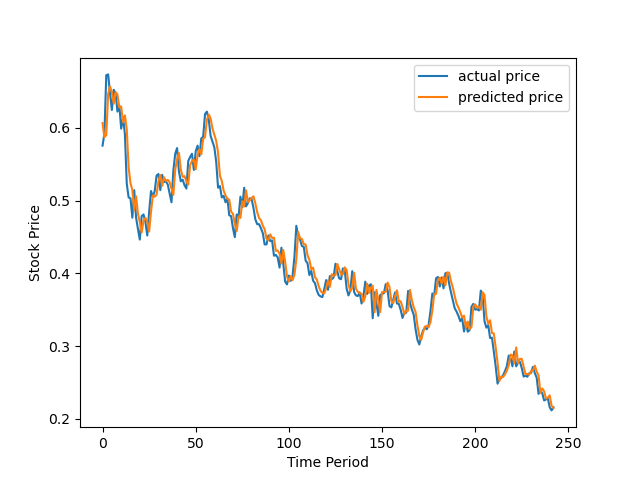
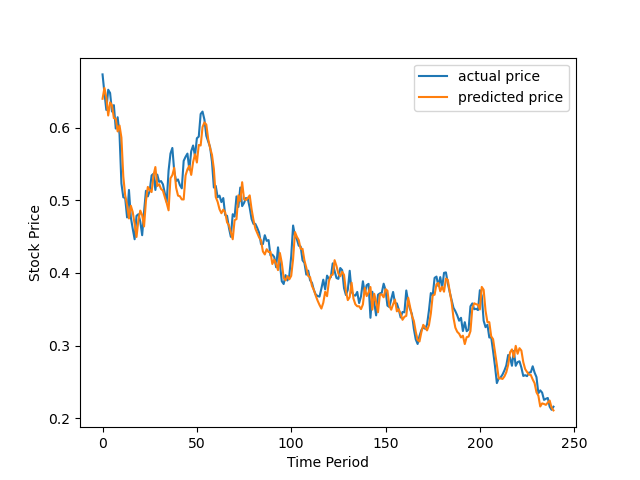
.

diff --git a/stock/main.py b/stock/main.py
@@ -44,16 +44,17 @@ def MinMaxScaler(data):
 
 # train Parameters
 learning_rate = 0.001
-num_epochs = 3001
-input_size = 11
+num_epochs = 5001
+input_size = 8
 hidden_size = 512
 num_classes = 1
-timesteps = seq_length = 14
+timesteps = seq_length = 21
 num_layers = 1  # number of layers in RNN
 
 df = pd.read_csv('에코프로비엠.csv', encoding='utf-8-sig')
+df = df.drop(columns=['날짜', '등락률', '기타법인', '개인'], axis = 1)
 df = df.apply(pd.to_numeric, errors='coerce')
-df = df.drop(columns=['날짜'])
+
 df = df.dropna()
 xy = df.to_numpy()
 
